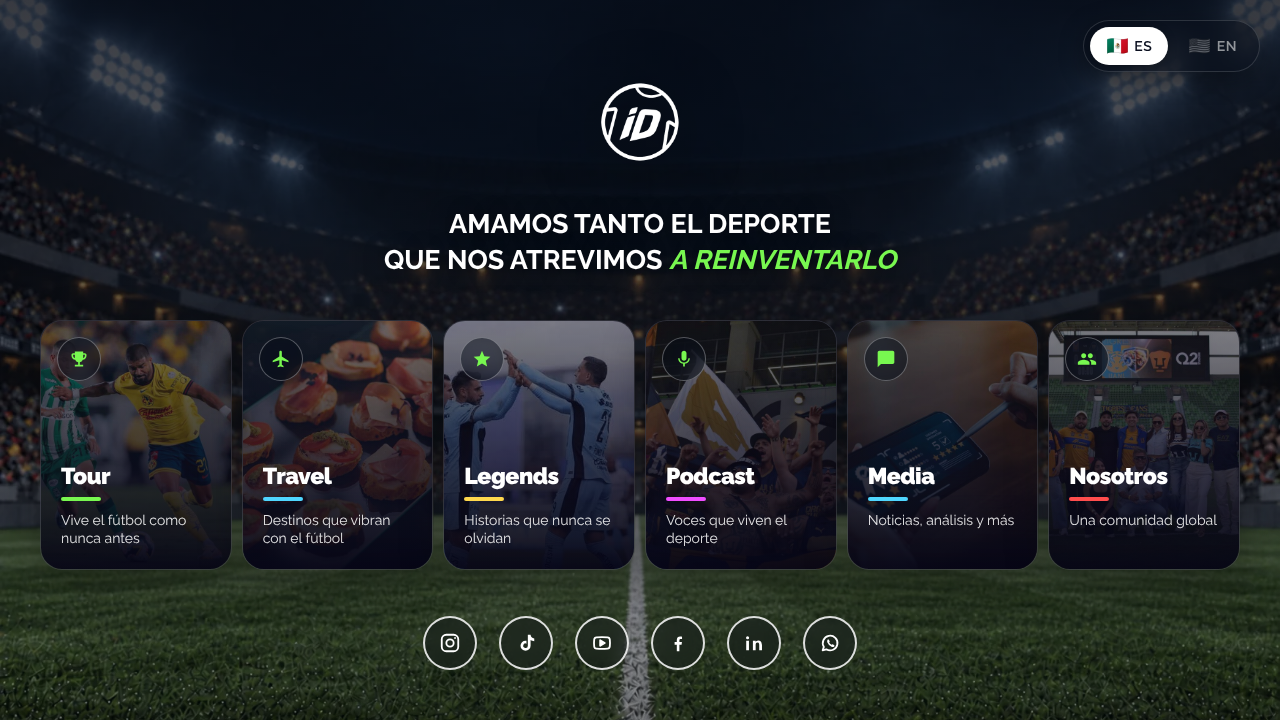
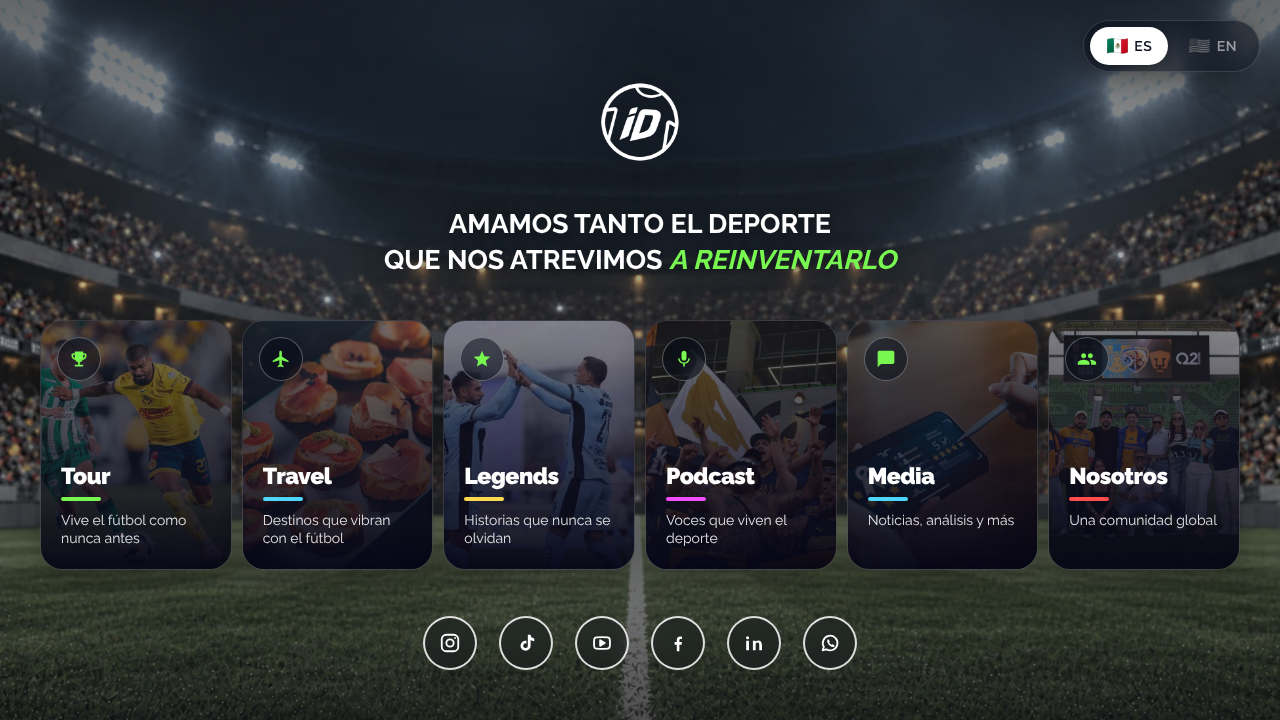
Inicio: filtro del fondo calibrado contra el mockup
Se midió el color medio de cielo, gradas y pasto en el mockup y se probaron
combinaciones de filtro y velo en el navegador hasta la más cercana: la
foto se levanta (brillo 1.25, saturación 0.7, un poco de sepia) y encima
va un velo neutro, denso en el cielo y en el pasto y ligero en las gradas,
para que se vea la gente y las luces como en la imagen.

Claude-Session: https://claude.ai/code/session_01TBS5J98YBvjYTTdc9XtUtE

Changed region(s): [[0.0, 0.0, 1.0, 0.7028], [0.9688, 0.55, 1.0, 0.7028], [0.4688, 0.9167, 0.5312, 1.0]]

diff --git a/assets/css/inicio.css b/assets/css/inicio.css
@@ -32,8 +32,12 @@ body .lang-btn:not(.active) .lang-flag { filter: grayscale(1) opacity(0.6); }
 /* El fondo del mockup: el estadio se ve entero, en frío y apagado, con el
    pasto y la línea central a la vista abajo. Un velo azul marino parejo,
    apenas más denso arriba, y nada de degradado negro al pie. */
-.hero-video-container::after { background: linear-gradient(180deg, rgba(4,7,16,0.74) 0%, rgba(4,7,16,0.56) 30%, rgba(4,7,16,0.40) 62%, rgba(4,7,16,0.28) 100%); }
-.hero-image { filter: saturate(0.8) brightness(0.8); }
+/* Calibrado contra el mockup midiendo cielo, gradas y pasto: la foto se
+   levanta (brillo 1.25, un poco de sepia para que la gente de las gradas
+   se vea cálida) y encima va un velo neutro, denso en el cielo y en el
+   pasto y ligero a la altura de las gradas. */
+.hero-video-container::after { background: linear-gradient(180deg, rgba(18,20,24,0.65) 0%, rgba(18,20,24,0.30) 45%, rgba(18,20,24,0.74) 100%); }
+.hero-image { filter: saturate(0.7) brightness(1.25) sepia(0.2); }
 .hero-logo-text img { width: 84px; height: 84px; }
 /* El tamaño del lema en celular ya está calibrado en main.css (dos líneas
    exactas); sólo se toca en escritorio. */
